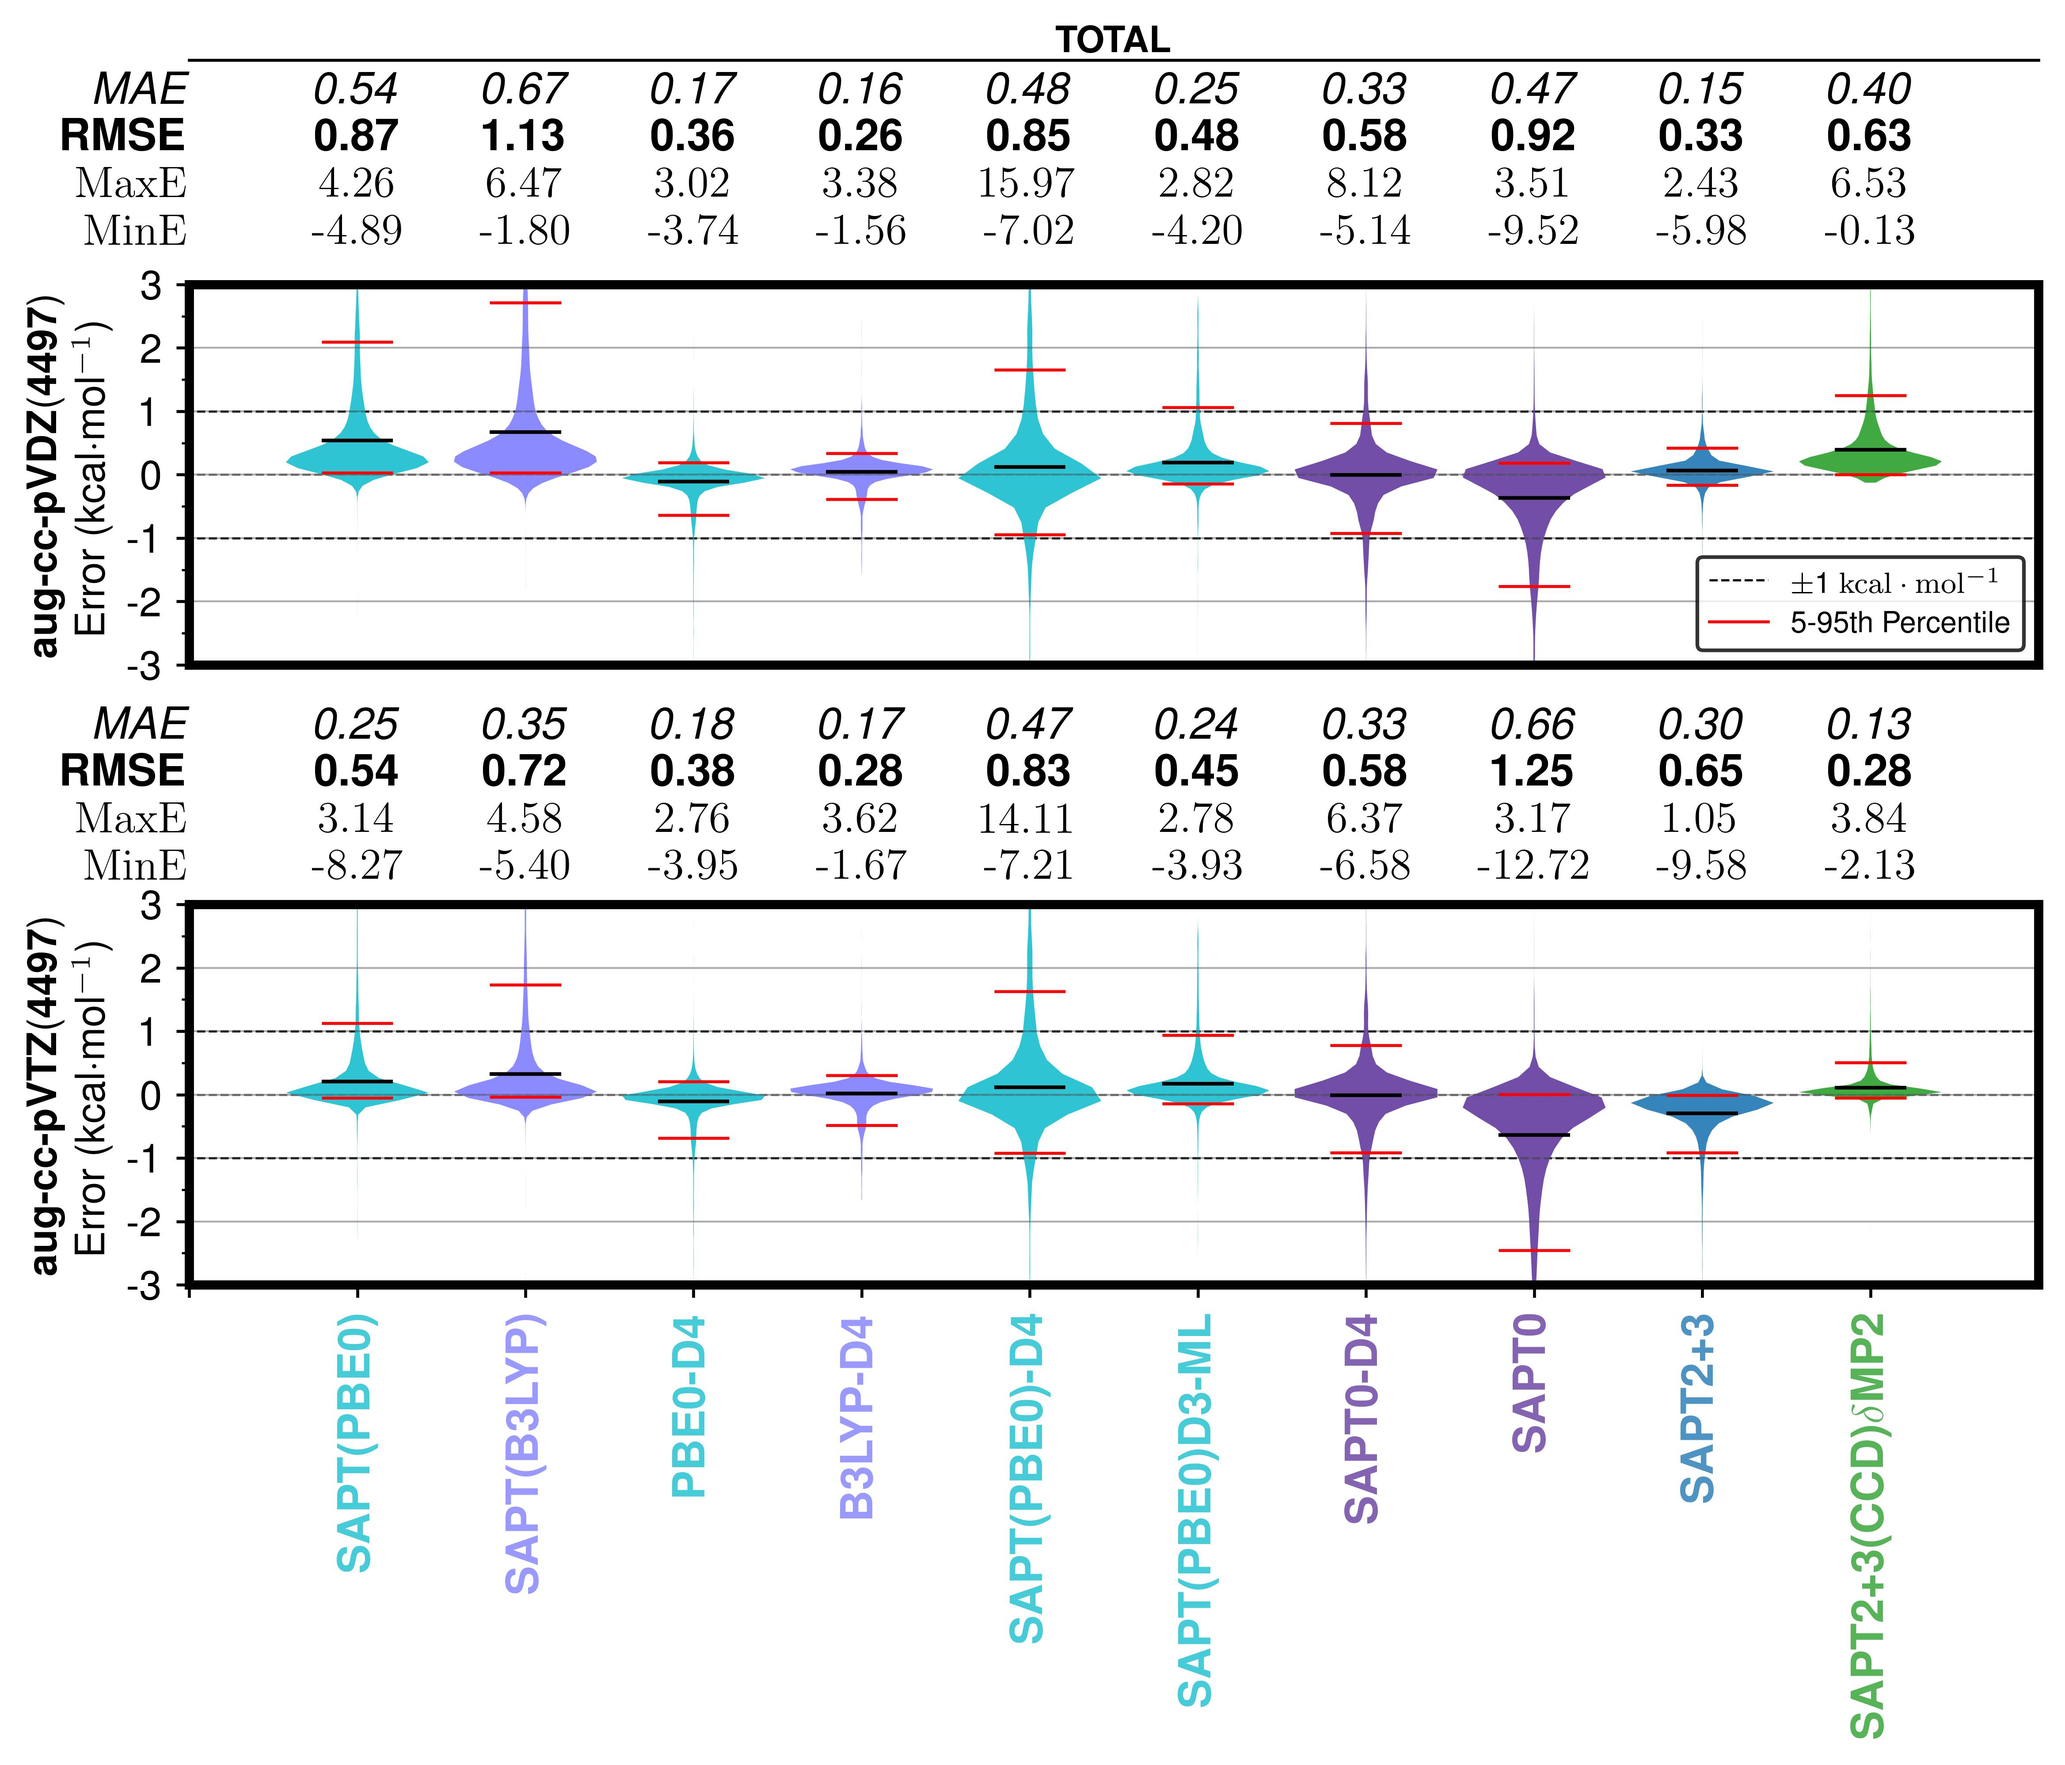
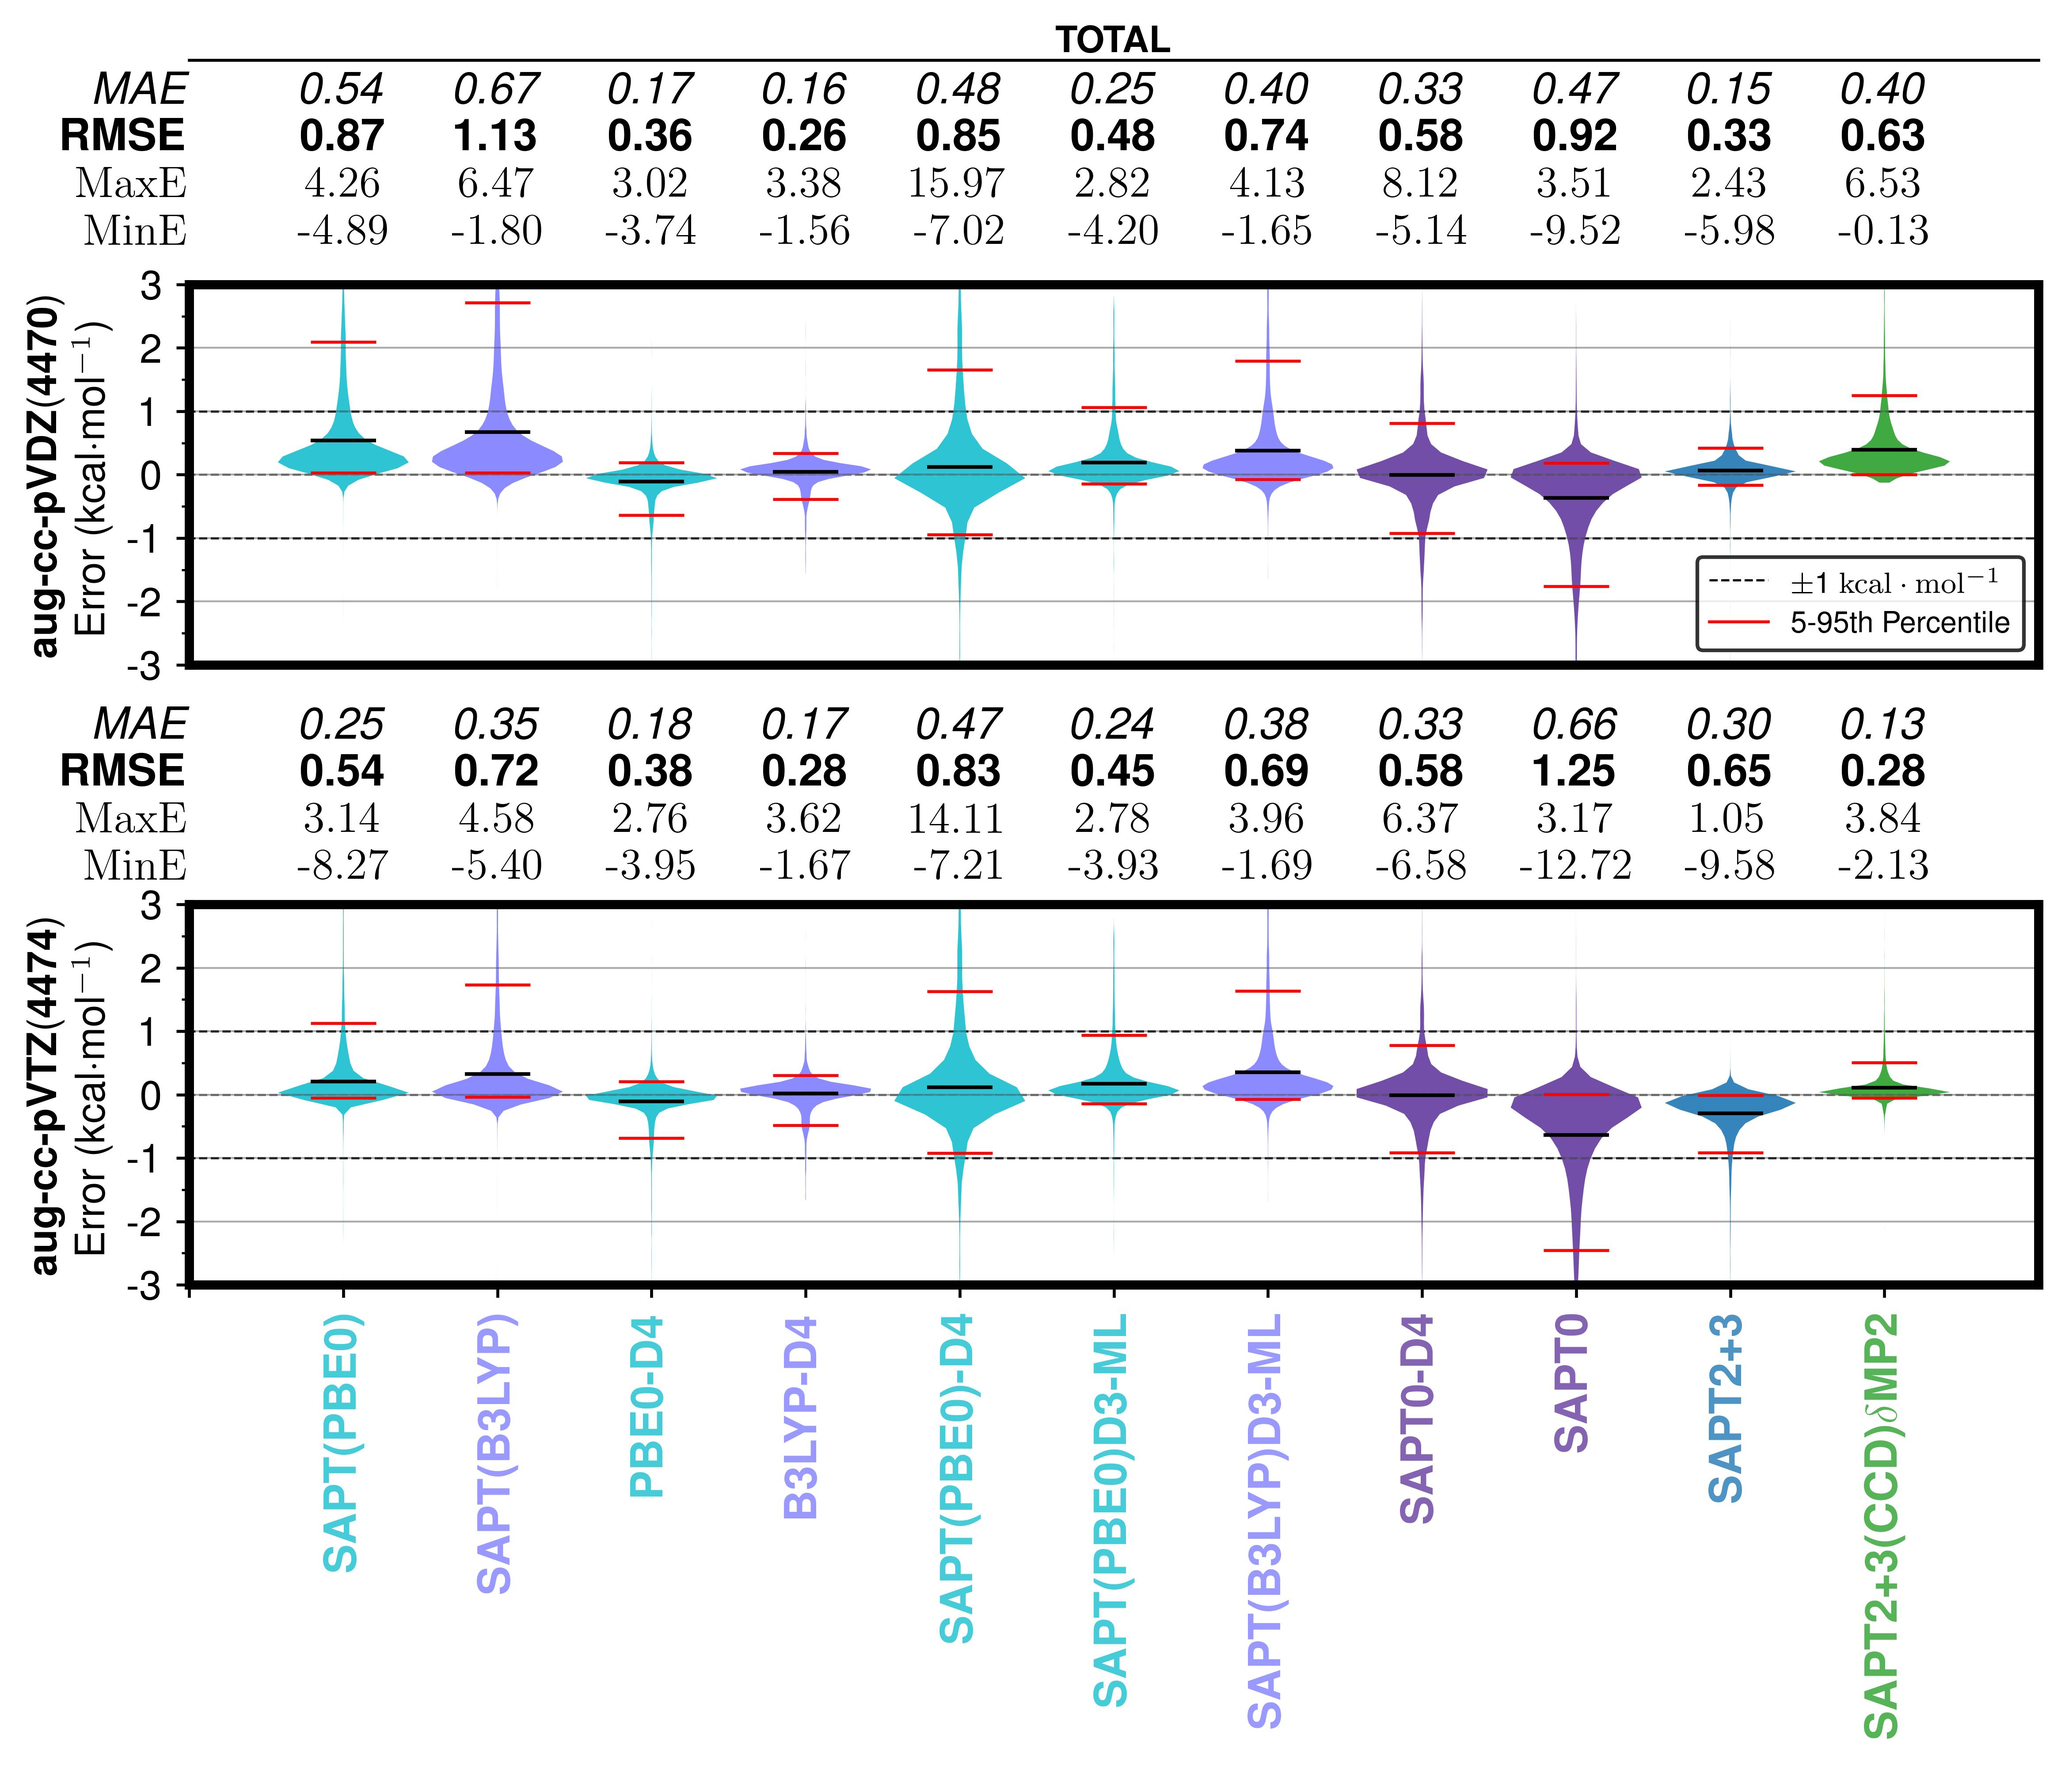
updates to totals for saptb3lypd3ml

diff --git a/src/plotting.py b/src/plotting.py
@@ -50,6 +50,7 @@ colors_total_saptdftd4 = [
         # INDIGO,
         TEAL,
         TEAL,
+        LIGHT_PURPLE,
         PURPLE,
         PURPLE,
         BLUE,
@@ -4133,6 +4134,7 @@ def violin_plots_multi(df, limit_to_column_not_nan=None, slide=True):
         print(
             f"Limiting to {limit_to_column_not_nan} not NaN: {size_prior} -> {len(df)}"
         )
+    df = d3ml_saptdft(df, 'b3lyp')
     sapt_methods = [
         "MP2 IE",
         "PBE0 IE",
@@ -4157,6 +4159,7 @@ def violin_plots_multi(df, limit_to_column_not_nan=None, slide=True):
         "SAPT0-D4 TOTAL ENERGY",
         "SAPT TOTAL ENERGY",
         "SAPT(DFT)D3-ML TOTAL ENERGY",
+        "SAPT(B3LYP)D3-ML TOTAL ENERGY",
         "SAPT(DFT)-D4 TOTAL ENERGY",
         "SAPT(DFT)+D4 TOTAL ENERGY",
     ]
@@ -4288,6 +4291,7 @@ def violin_plots_multi(df, limit_to_column_not_nan=None, slide=True):
         "SAPT(PBE0)-D4": "SAPT(DFT)-D4 TOTAL ENERGY Error",
         # "SAPT(DFT)+D4": "SAPT(DFT)+D4 TOTAL ENERGY Error",
         "SAPT(PBE0)D3-ML": "SAPT(DFT)D3-ML TOTAL ENERGY Error",
+        "SAPT(B3LYP)D3-ML": "SAPT(B3LYP)D3-ML TOTAL ENERGY Error",
         # Wavefunction
         "SAPT0-D4": "SAPT0-D4 TOTAL ENERGY Error",
         "SAPT0": "SAPT0 TOTAL ENERGY Error",
@@ -4535,9 +4539,10 @@ def violin_plots_multi_individual(df, limit_to_column_not_nan=None):
         "B2PLYP-D4": "B2PLYP-D4 TOTAL ENERGY Error",
         "WB97X-D4": "WB97X-D4 TOTAL ENERGY Error",
         # SAPT(DFT) D's
-        "SAPT(DFT)-D4": "SAPT(DFT)-D4 TOTAL ENERGY Error",
-        "SAPT(DFT)+D4": "SAPT(DFT)+D4 TOTAL ENERGY Error",
-        "SAPT(DFT)D3-ML": "SAPT(DFT)D3-ML TOTAL ENERGY Error",
+        "SAPT(PBE0)-D4": "SAPT(DFT)-D4 TOTAL ENERGY Error",
+        "SAPT(PBE0)+D4": "SAPT(DFT)+D4 TOTAL ENERGY Error",
+        "SAPT(PBE0)D3-ML": "SAPT(DFT)D3-ML TOTAL ENERGY Error",
+        "SAPT(B3LYP)D3-ML": "SAPT(B3LYP)D3-ML TOTAL ENERGY Error",
         # Wavefunction
         "SAPT0-D4": "SAPT0-D4 TOTAL ENERGY Error",
         "SAPT0": "SAPT0 TOTAL ENERGY Error",
@@ -4628,6 +4633,7 @@ def violin_plots_multi_subset(df, limit_to_column_not_nan=None):
         print(
             f"Limiting to {limit_to_column_not_nan} not NaN: {size_prior} -> {len(df)}"
         )
+    df = d3ml_saptdft(df, 'b3lyp')
     sapt_methods = [
         "MP2 IE",
         "PBE0 IE",
@@ -4652,6 +4658,7 @@ def violin_plots_multi_subset(df, limit_to_column_not_nan=None):
         "SAPT0-D4 TOTAL ENERGY",
         "SAPT TOTAL ENERGY",
         "SAPT(DFT)D3-ML TOTAL ENERGY",
+        "SAPT(B3LYP)D3-ML TOTAL ENERGY",
         "SAPT(DFT)-D4 TOTAL ENERGY",
         "SAPT(DFT)+D4 TOTAL ENERGY",
     ]
@@ -4815,6 +4822,7 @@ def violin_plots_multi_subset(df, limit_to_column_not_nan=None):
         "SAPT(PBE0)-D4": "SAPT(DFT)-D4 TOTAL ENERGY Error",
         # "SAPT(DFT)+D4": "SAPT(DFT)+D4 TOTAL ENERGY Error",
         "SAPT(PBE0)D3-ML": "SAPT(DFT)D3-ML TOTAL ENERGY Error",
+        "SAPT(B3LYP)D3-ML": "SAPT(B3LYP)D3-ML TOTAL ENERGY Error",
         # Wavefunction
         "SAPT0-D4": "SAPT0-D4 TOTAL ENERGY Error",
         "SAPT0": "SAPT0 TOTAL ENERGY Error",
@@ -8460,21 +8468,21 @@ def plot_components_sapt0_saptdft(df):
     violin_plots_multi_components_sapt0d4(df)
     return
 
+def d3ml_saptdft(df, functional='b3lyp'):
+    for i in ["adz", "atz", "aqz"]:
+        col = f"SAPT_DFT_{functional}_{i}"
+        df[f"SAPT({functional.upper()})D3-ML TOTAL ENERGY {i}"] = df.apply(
+                lambda r: sum(r[col][1:4]) + r[f"D3-ML"] if r[col] is not None else None,
+            axis=1
+        )
+        print(df[f"D3-ML"].describe())
+        df[f"SAPT({functional.upper()})D3-ML TOTAL ENERGY {i}"] /= h2kcalmol
+    return df
 
 def plot_LoS_saptdft(
     df,
     presentation=False,
 ):
-    print(
-        df[
-            [
-                "SAPT_DFT_pbe0_adz_D4_IE",
-                "SAPT_DFT_pbe0_adz_dDFT",
-                "SAPT_DFT_pbe0_adz_indu",
-                "benchmark ref energy",
-            ]
-        ]
-    )
     df["SAPT0-D4 TOTAL ENERGY adz"] = df.apply(
         lambda r: ((r["SAPT0_adz_3_IE"] + r["-D4 (SAPT0_adz_3_IE)"]) / h2kcalmol),
         axis=1,
@@ -8487,7 +8495,6 @@ def plot_LoS_saptdft(
         lambda r: ((r["SAPT0_atz_3_IE"] + r["-D4 (SAPT0_atz_3_IE)"]) / h2kcalmol),
         axis=1,
     )
-    print(df[["SAPT0-D4 TOTAL ENERGY adz", "SAPT0-D4 TOTAL ENERGY atz"]])
     conv = [
         # PBE0
         "SAPT_DFT_D4_pbe0_adz_total",
@@ -8548,9 +8555,10 @@ def plot_LoS_saptdft(
         violin_plots_multi_subset_individual(df)
     else:
         # return
-        violin_plots_multi_components(df, limit_to_column_not_nan="D3-ML")
-        violin_plots_multi_components_subset(df, limit_to_column_not_nan="D3-ML")
         violin_plots_multi(df)
         violin_plots_multi_subset(df)
+        return
+        violin_plots_multi_components(df, limit_to_column_not_nan="D3-ML")
+        violin_plots_multi_components_subset(df, limit_to_column_not_nan="D3-ML")
         return
     return
